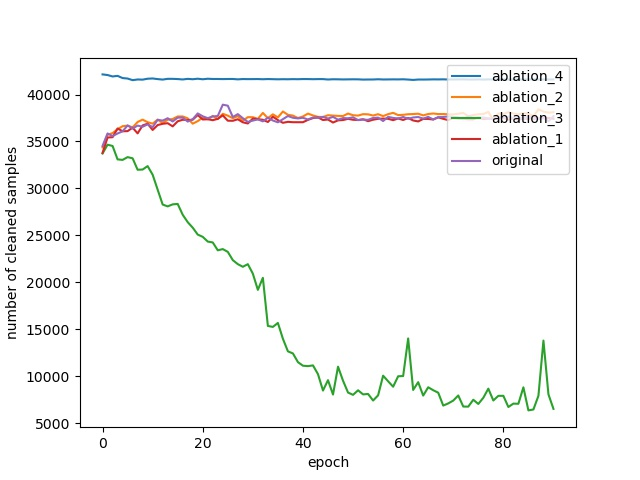
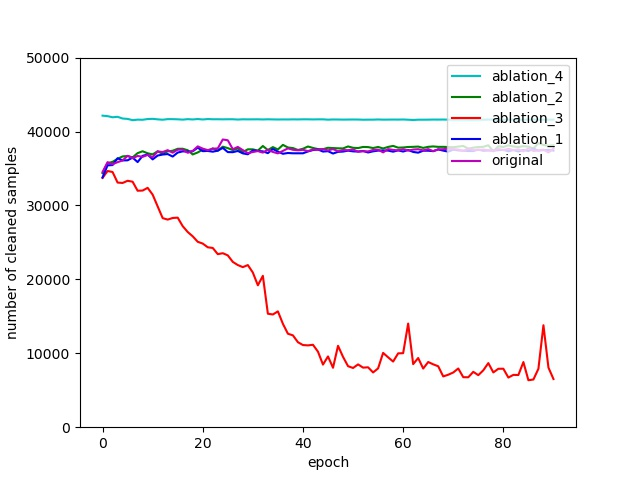
update plots

diff --git a/src/plot.py b/src/plot.py
@@ -48,15 +48,25 @@ if __name__ == '__main__':
 	# for key in best_acc:
 	# 	print('best', key, best_acc[key])
 	# 	print('last', key, last_acc[key])
-	
 		for key, value in epochs_stats.items():	
 			if '0.5' in key:
 				if 'asym' in key:
-					label = key[-14:-4] if 'ablation' in key else 'original'
-					plt.plot(epochs_stats[key], labeled_samples[key], label = label)
+					if 'ablation_1' in key:
+						plt.plot(epochs_stats[key], labeled_samples[key], label = 'ablation_1', color = 'b')
+					elif 'ablation_2' in key:
+						plt.plot(epochs_stats[key], labeled_samples[key], label = 'ablation_2', color = 'g')
+					elif 'ablation_3' in key:
+						plt.plot(epochs_stats[key], labeled_samples[key], label = 'ablation_3', color = 'r')
+					elif 'ablation_4' in key:
+						plt.plot(epochs_stats[key], labeled_samples[key], label = 'ablation_4', color = 'c')
+					else:
+						plt.plot(epochs_stats[key], labeled_samples[key], label = 'original', color = 'm')
+
+
 		
 		plt.xlabel('epoch')
 		plt.ylabel('number of cleaned samples')
+		plt.ylim(0, 50000)
 		plt.legend(loc = 1)
 		fig_path = os.path.join(root_dir, 'plots', '0.5_asym_labeled_samples.jpg')
 		plt.savefig(fig_path)
@@ -67,11 +77,20 @@ if __name__ == '__main__':
 			for key, value in epochs_stats.items():
 				if not 'asym' in key:
 					if r in key:
-						label = key[-14:-4] if 'ablation' in key else 'original'
-						plt.plot(epochs_stats[key], labeled_samples[key], label = label)
+						if 'ablation_1' in key:
+							plt.plot(epochs_stats[key], labeled_samples[key], label = 'ablation_1', color = 'b')
+						elif 'ablation_2' in key:
+							plt.plot(epochs_stats[key], labeled_samples[key], label = 'ablation_2', color = 'g')
+						elif 'ablation_3' in key:
+							plt.plot(epochs_stats[key], labeled_samples[key], label = 'ablation_3', color = 'r')
+						elif 'ablation_4' in key:
+							plt.plot(epochs_stats[key], labeled_samples[key], label = 'ablation_4', color = 'c')
+						else:
+							plt.plot(epochs_stats[key], labeled_samples[key], label = 'original', color = 'm')
 
 			plt.xlabel('epoch')
 			plt.ylabel('number of cleaned samples')
+			plt.ylim(0, 50000)
 			plt.legend(loc = 1)
 			fig_path = os.path.join(root_dir, 'plots', r + '_sym_labeled_samples.jpg')
 			plt.savefig(fig_path)
@@ -81,11 +100,20 @@ if __name__ == '__main__':
 		for key, value in epochs_stats.items():	
 			if '0.5' in key:
 				if 'asym' in key:
-					label = key[-14:-4] if 'ablation' in key else 'original'
-					plt.plot(epochs_stats[key], aucs[key], label = label)
-		
+					if 'ablation_1' in key:
+						plt.plot(epochs_stats[key], aucs[key], label = 'ablation_1', color = 'b')
+					elif 'ablation_2' in key:
+						plt.plot(epochs_stats[key], aucs[key], label = 'ablation_2', color = 'g')
+					elif 'ablation_3' in key:
+						plt.plot(epochs_stats[key], aucs[key], label = 'ablation_3', color = 'r')
+					elif 'ablation_4' in key:
+						plt.plot(epochs_stats[key], aucs[key], label = 'ablation_4', color = 'c')
+					else:
+						plt.plot(epochs_stats[key], aucs[key], label = 'original', color = 'm')
+
 		plt.xlabel('epoch')
 		plt.ylabel('AUC of cleaned samples')
+		plt.ylim(0,1)
 		plt.legend(loc = 1)
 		fig_path = os.path.join(root_dir, 'plots', '0.5_asym_AUC.jpg')
 		plt.savefig(fig_path)
@@ -96,12 +124,21 @@ if __name__ == '__main__':
 			for key, value in epochs_stats.items():
 				if not 'asym' in key:
 					if r in key:
-						label = key[-14:-4] if 'ablation' in key else 'original'
-						plt.plot(epochs_stats[key], aucs[key], label = label)
+						if 'ablation_1' in key:
+							plt.plot(epochs_stats[key], aucs[key], label = 'ablation_1', color = 'b')
+						elif 'ablation_2' in key:
+							plt.plot(epochs_stats[key], aucs[key], label = 'ablation_2', color = 'g')
+						elif 'ablation_3' in key:
+							plt.plot(epochs_stats[key], aucs[key], label = 'ablation_3', color = 'r')
+						elif 'ablation_4' in key:
+							plt.plot(epochs_stats[key], aucs[key], label = 'ablation_4', color = 'c')
+						else:
+							plt.plot(epochs_stats[key], aucs[key], label = 'original', color = 'm')
 
 			plt.xlabel('epoch')
 			plt.ylabel('AUC of cleaned samples')
 			plt.legend(loc = 1)
+			plt.ylim(0,1)
 			fig_path = os.path.join(root_dir, 'plots', r + '_sym_AUC.jpg')
 			plt.savefig(fig_path)
 			plt.clf()
@@ -110,11 +147,21 @@ if __name__ == '__main__':
 		for key, value in epochs.items():
 			if '0.5' in key:
 				if 'asym' in key:
-					label = key[-14:-4] if 'ablation' in key else 'original'
-					plt.plot(epochs[key], accs[key], label = label)
+					if 'ablation_1' in key:
+						plt.plot(epochs[key], accs[key], label = 'ablation_1', color = 'b')
+					elif 'ablation_2' in key:
+						plt.plot(epochs[key], accs[key], label = 'ablation_2', color = 'g')
+					elif 'ablation_3' in key:
+						plt.plot(epochs[key], accs[key], label = 'ablation_3', color = 'r')
+					elif 'ablation_4' in key:
+						plt.plot(epochs[key], accs[key], label = 'ablation_4', color = 'c')
+					else:
+						plt.plot(epochs[key], accs[key], label = 'original', color = 'm')
+
 				
 		plt.xlabel('epochs')
 		plt.ylabel('test accuracy')
+		plt.ylim(0,1)
 		plt.legend()
 		plt.savefig(os.path.join(dirpath, 'plots', '0.5_asym_acc.jpg'))
 		plt.clf()
@@ -124,12 +171,23 @@ if __name__ == '__main__':
 			for key, value in epochs.items():
 				if not 'asym' in key:
 					if r in key:
-						label = key[-14:-4] if 'ablation' in key else 'original'
-						plt.plot(epochs[key], accs[key], label = label)
+						if 'ablation_1' in key:
+							plt.plot(epochs[key], accs[key], label = 'ablation_1', color = 'b')
+						elif 'ablation_2' in key:
+							plt.plot(epochs[key], accs[key], label = 'ablation_2', color = 'g')
+						elif 'ablation_3' in key:
+							plt.plot(epochs[key], accs[key], label = 'ablation_3', color = 'r')
+						elif 'ablation_4' in key:
+							plt.plot(epochs[key], accs[key], label = 'ablation_4', color = 'c')
+						else:
+							plt.plot(epochs[key], accs[key], label = 'original', color = 'm')
+
 						
 					
 			plt.xlabel('epochs')
 			plt.ylabel('test accuracy')
+			plt.ylim(0,1)
+
 			plt.legend()
 			plt.savefig(os.path.join(dirpath, 'plots', r + '_sym_acc.jpg'))
 			plt.clf()
